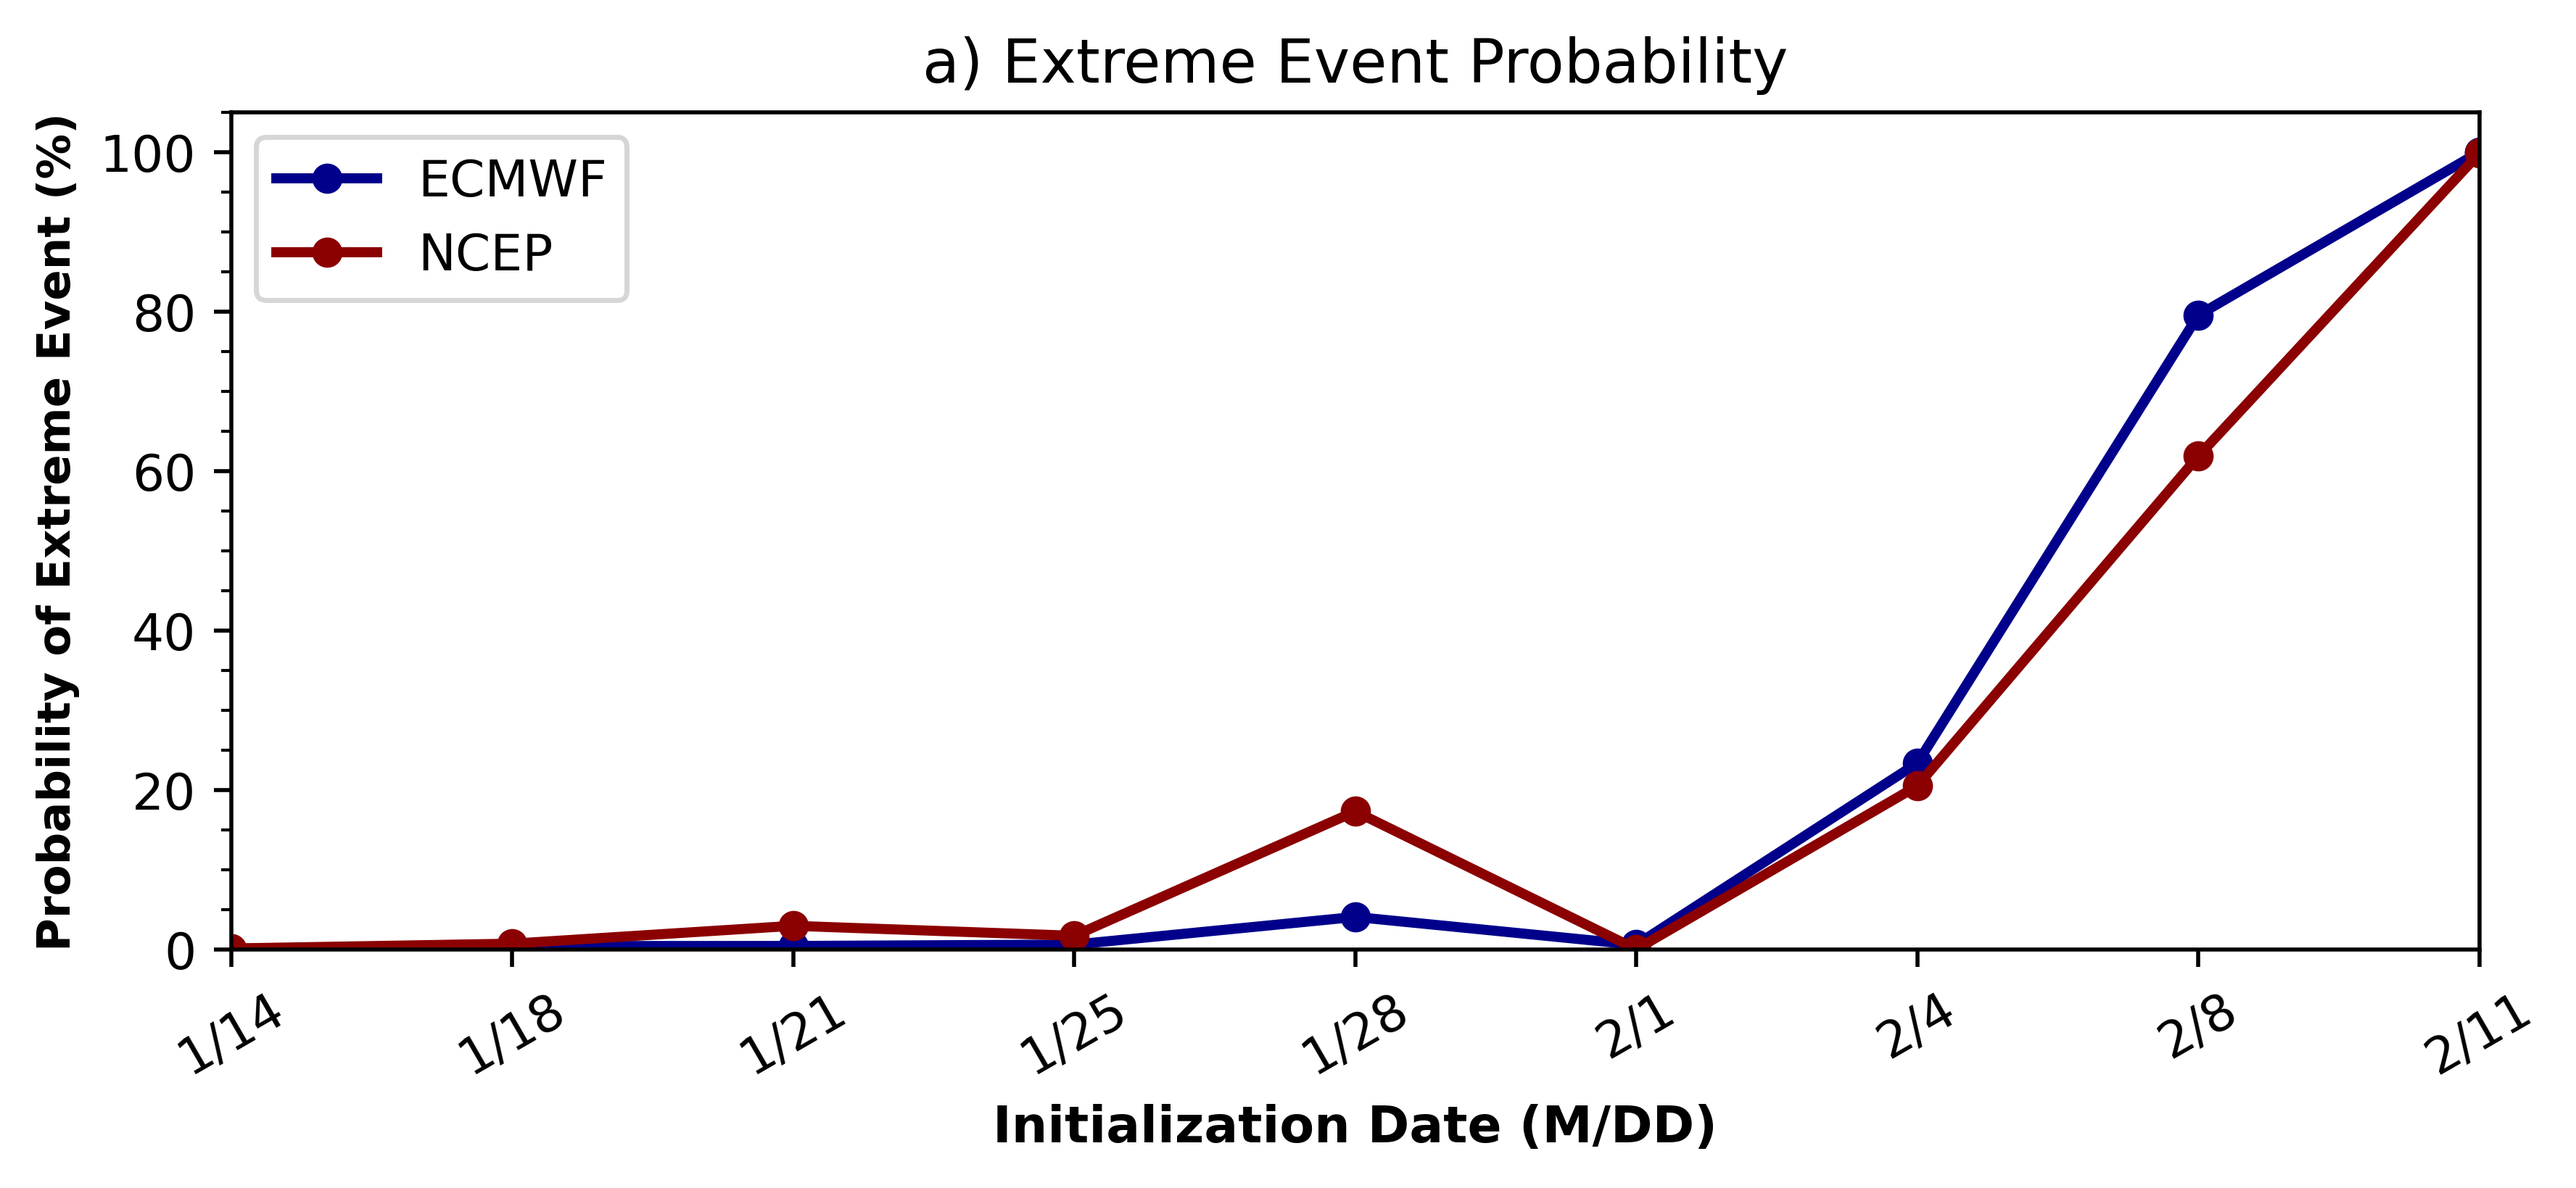
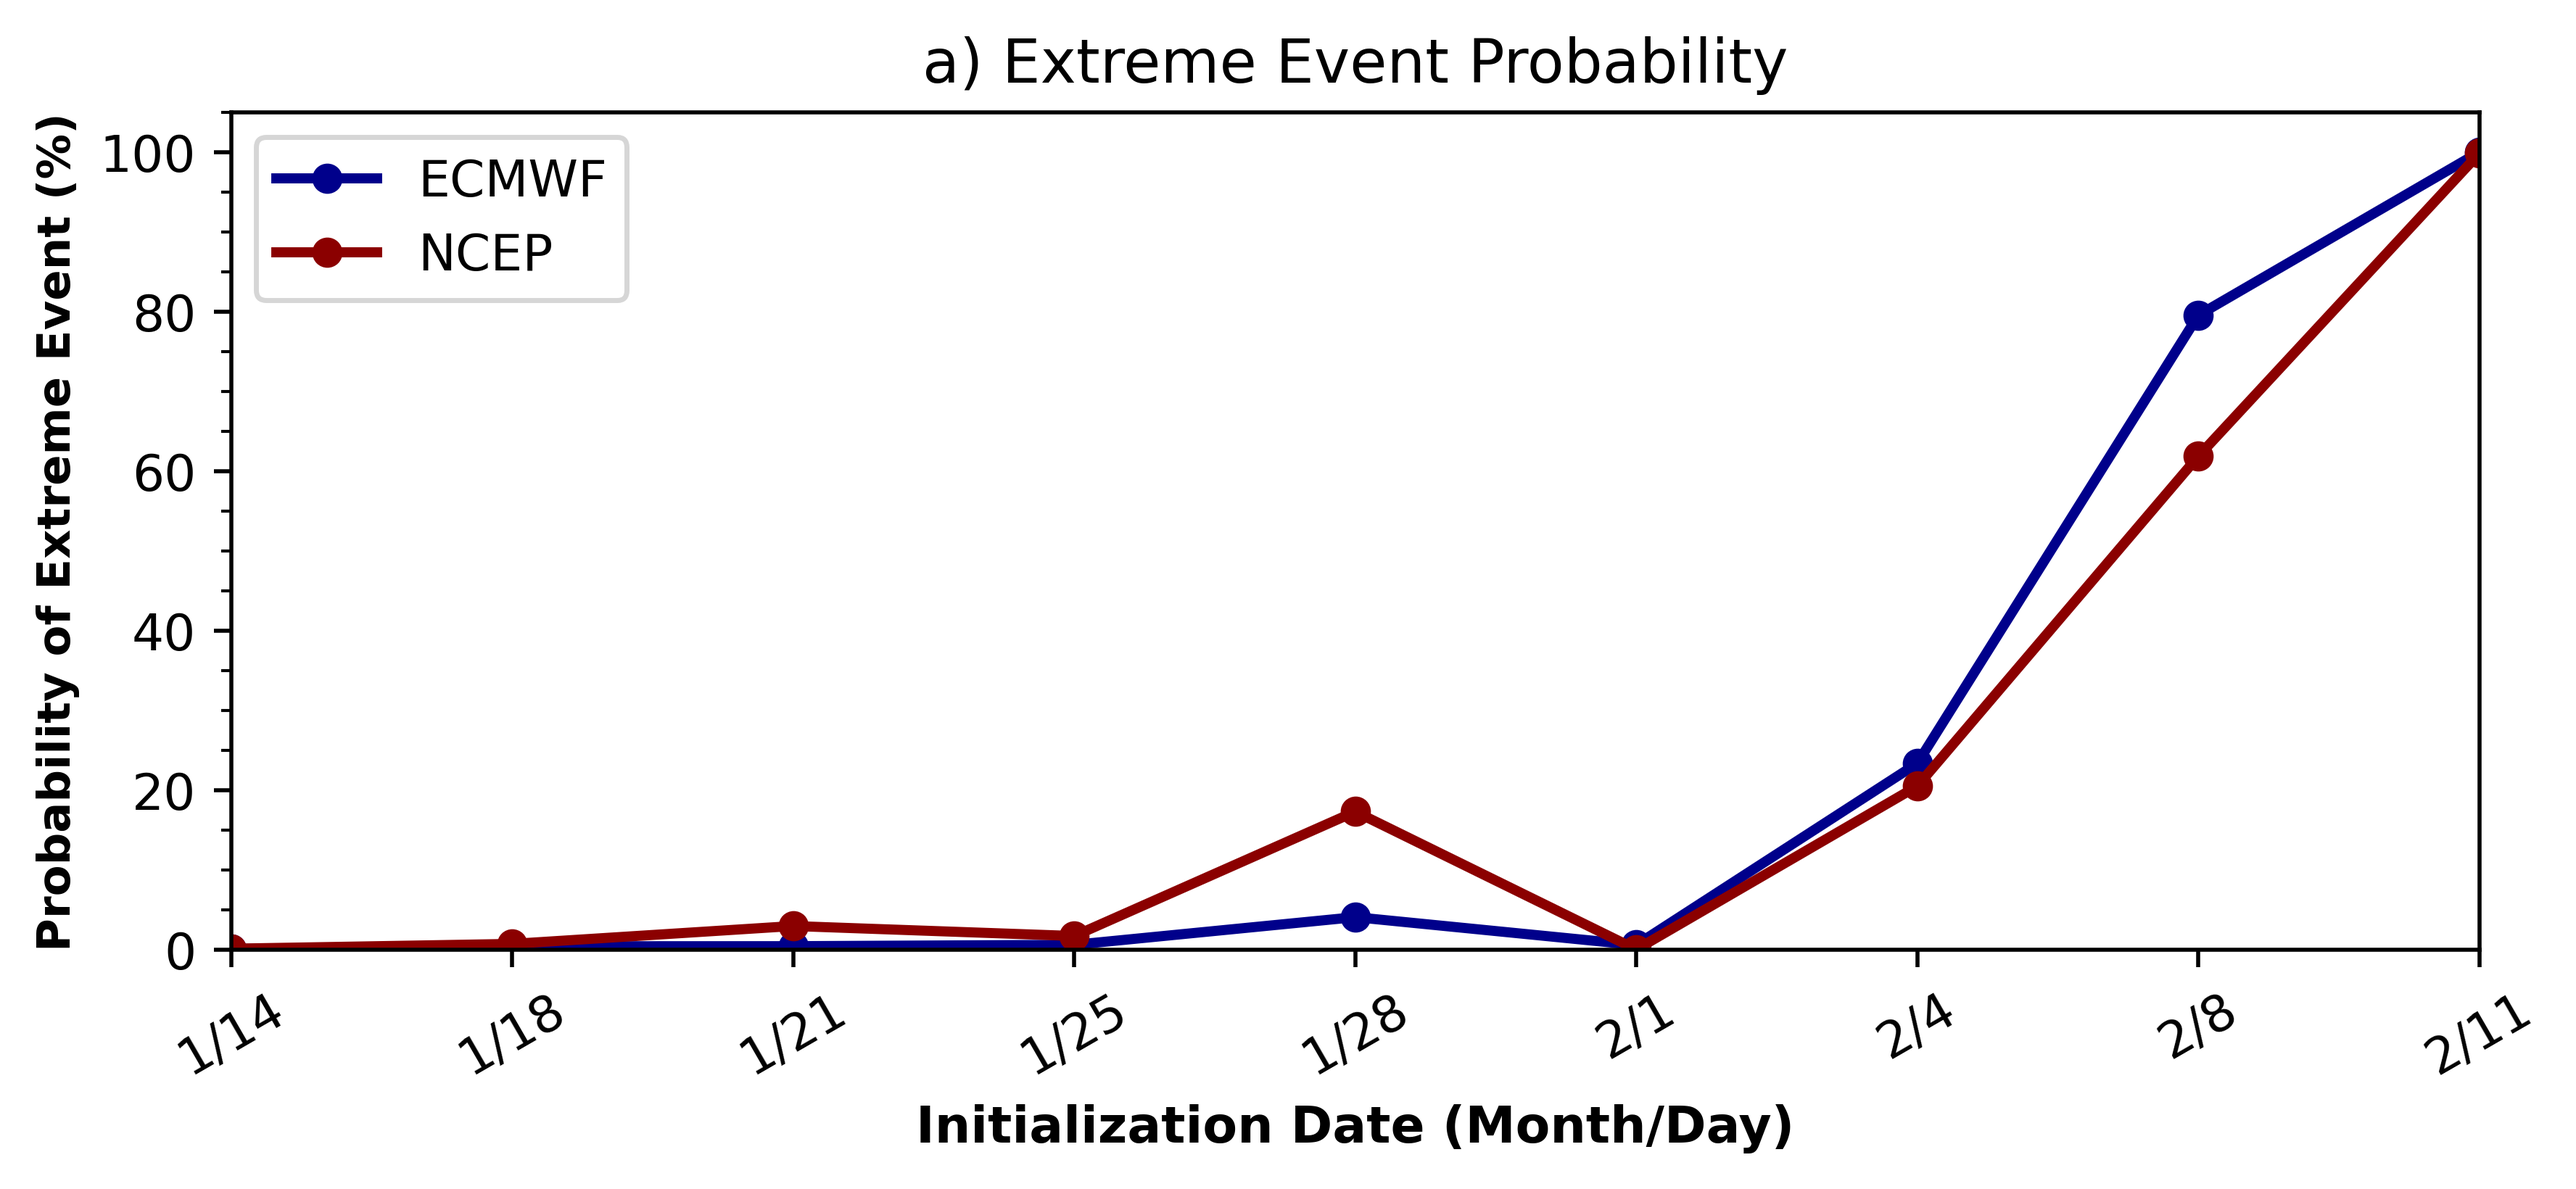
small edits

diff --git a/main/S2S_Models/Prob_Extreme_Event/ECMWF_NCEP/extreme_event_prob_NCEP_ECMWF.py b/main/S2S_Models/Prob_Extreme_Event/ECMWF_NCEP/extreme_event_prob_NCEP_ECMWF.py
@@ -60,7 +60,7 @@ t2m_ltm_region_ncep = ltm_t2m_ncep[:, :, ltm_lat_ind1:ltm_lat_ind2+1, ltm_lon_in
 
 ###### Read in the ECMWF surfT data from the model forecasts. ######
 # Go to directory for ensemble of ECMWF T2M data.
-dir = '/data/deluge/scratch/S2S/realtime/ECMWF/surfT'
+dir = '/data/deluge/models/S2S/realtime/ECMWF/surfT'
 path = os.chdir(dir)
 
 # Open one data file for parameters.
@@ -87,7 +87,7 @@ cold_end = datetime(2021, 2, 18, 0, 0)
 
 # Do perturbation indexing for ECMWF.
 # Get all filenames that feature "perturbed.nc" and sort them.
-model_dir_pert = '/data/deluge/scratch/S2S/realtime/ECMWF/surfT/*perturbed.nc'
+model_dir_pert = '/data/deluge/models/S2S/realtime/ECMWF/surfT/*perturbed.nc'
 files_pert = glob.glob(model_dir_pert)
 files_pert.sort()
 # Now split the names into strings of just the init date form "YYYY-MM-DD".
@@ -98,7 +98,7 @@ pert_ind2 = model_dates_pert.index(date_end)
 
 # Do control indexing for ECMWF.
 # Get all filenames that feature "control.nc" and sort them.
-model_dir_con = '/data/deluge/scratch/S2S/realtime/ECMWF/surfT/*control.nc'
+model_dir_con = '/data/deluge/models/S2S/realtime/ECMWF/surfT/*control.nc'
 files_con = glob.glob(model_dir_con)
 files_con.sort()
 # Now split the names into strings of just the init date form "YYYY-MM-DD".
@@ -143,7 +143,7 @@ for i in range(con_ind1, con_ind2+1):
 
 ###### Read in the NCEP surfT data from the model forecasts. ######
 # Go to directory for ensemble of NCEP T2M data.
-dir = '/data/deluge/scratch/S2S/realtime/NCEP/surfT'
+dir = '/data/deluge/models/S2S/realtime/NCEP/surfT'
 path = os.chdir(dir)
 
 # Open one data file for parameters.
@@ -307,7 +307,7 @@ ax.plot(np.arange(1, len(date_ticks)+1), prob_arr_ncep*100, lw = 2, color = 'dar
 # Set plot parameters.
 plt.title(f'a) Extreme Event Probability')
 plt.xticks(np.arange(1, len(date_ticks)+1), date_ticks, rotation = 30)
-plt.xlabel('Initialization Date (M/DD)', fontsize = 10, weight = 'bold')
+plt.xlabel('Initialization Date (Month/Day)', fontsize = 10, weight = 'bold')
 plt.ylabel('Probability of Extreme Event (%)', fontsize = 9, weight = 'bold')
 plt.yticks(np.arange(0, 120, 20))
 ax.yaxis.set_minor_locator(MultipleLocator(5))
